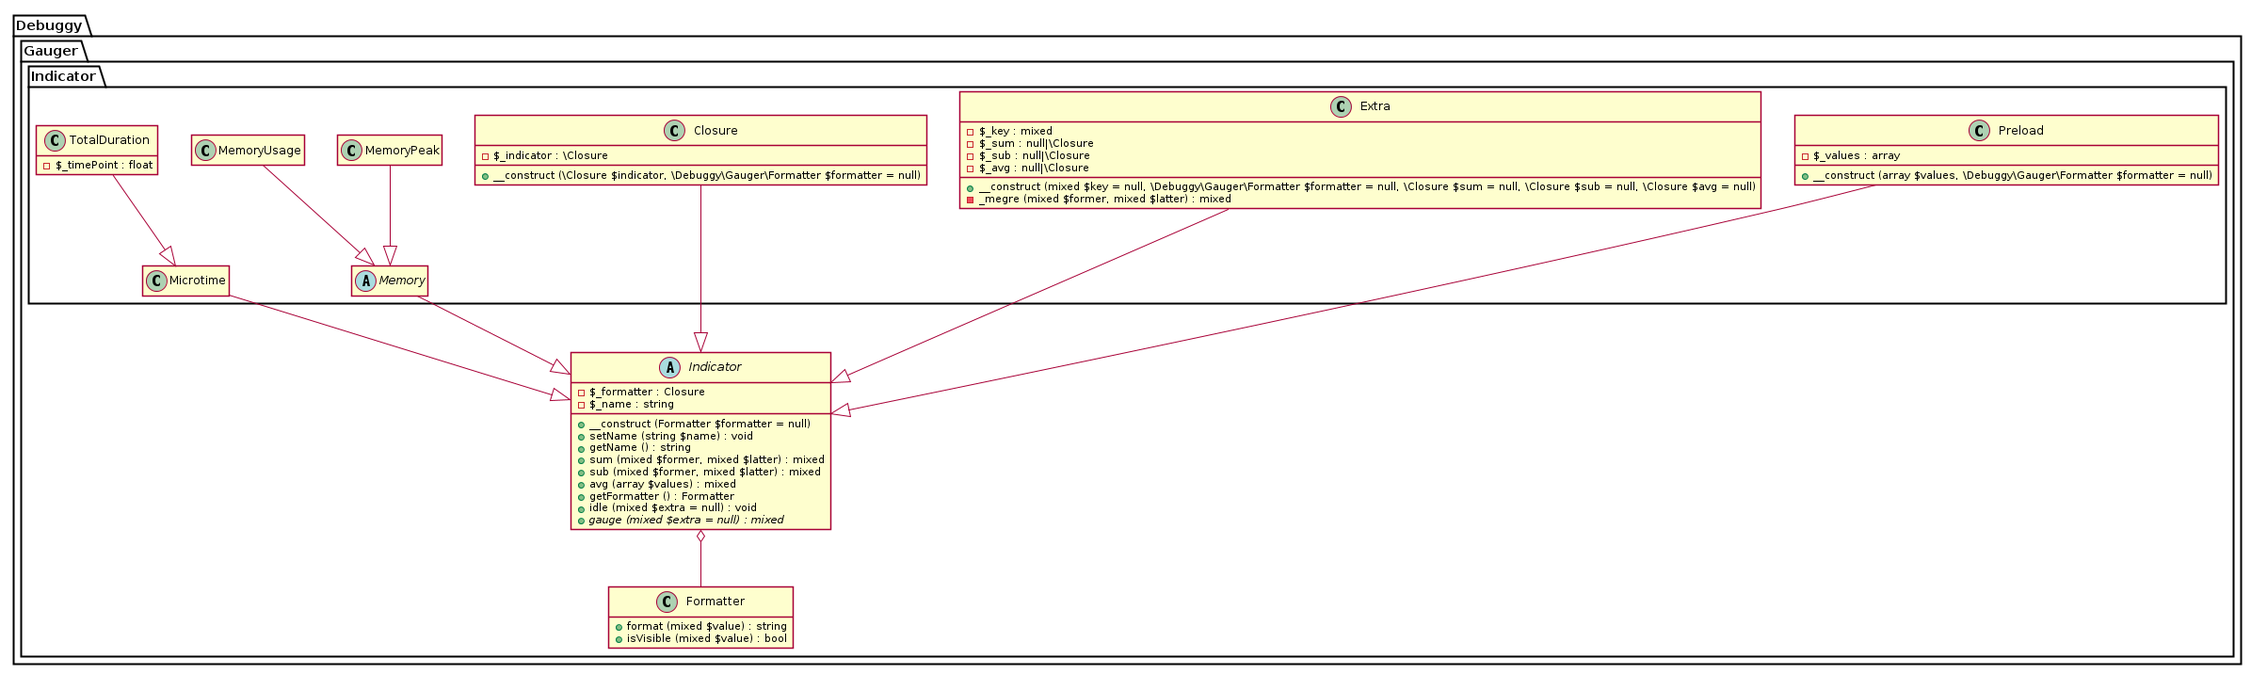
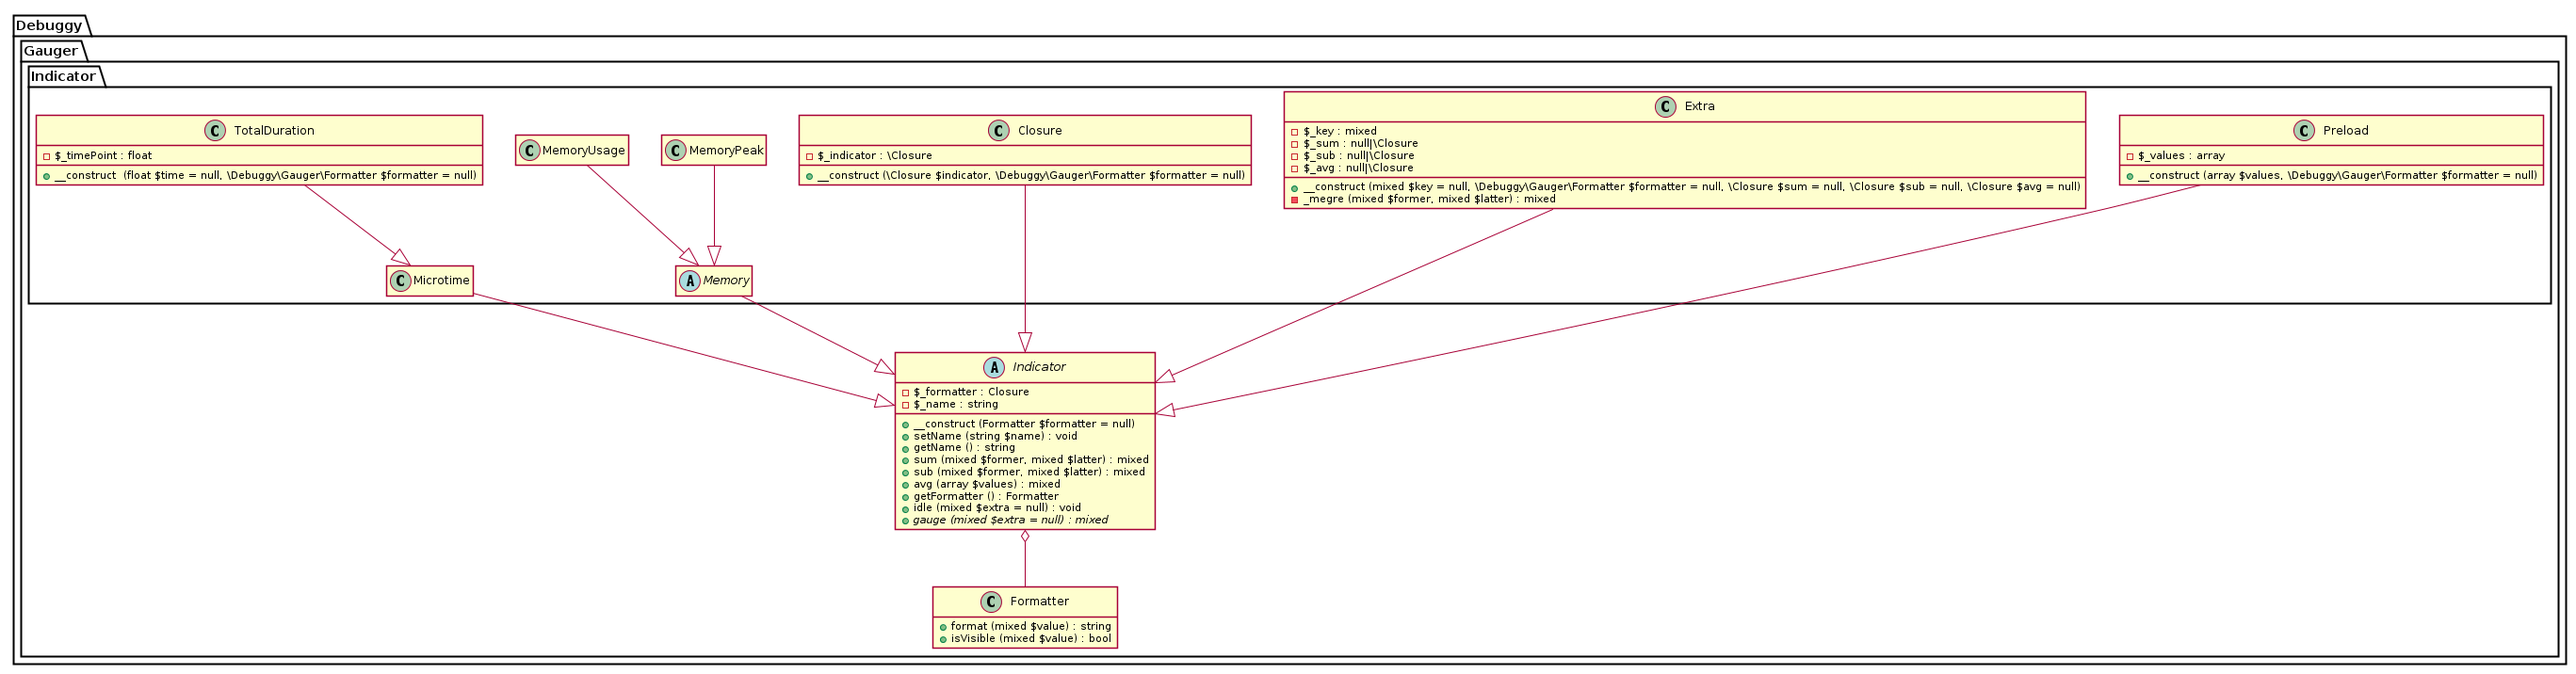
Sample1 uses TotalDuration instead of Microtime; TotalDuration takes microtime in the constructor

diff --git a/src/Debuggy/Gauger/Indicator/TotalDuration.php b/src/Debuggy/Gauger/Indicator/TotalDuration.php
@@ -13,10 +13,13 @@ use Debuggy\Gauger\Formatter;
  */
 class TotalDuration extends Microtime {
 	/** {@inheritdoc} */
-	public function __construct (Formatter $formatter = null) {
+	public function __construct ($time = null, Formatter $formatter = null) {
 		parent::__construct ($formatter);
 
-		if (isset ($_SERVER['REQUEST_TIME_FLOAT']))
+		if (isset ($time))
+			$this->_timePoint = (float) $time;
+
+		else if (isset ($_SERVER['REQUEST_TIME_FLOAT']))
 			$this->_timePoint = $_SERVER['REQUEST_TIME_FLOAT'];
 
 		else if (isset ($_SERVER['REQUEST_TIME']))

diff --git a/src/Debuggy/Gauger/Sample/Sample1.php b/src/Debuggy/Gauger/Sample/Sample1.php
@@ -41,7 +41,7 @@ class Sample1 extends Sample {
 
 	/** {@inheritdoc} */
 	protected function initGauge (Gauge $gauge) {
-		$gauge->addDial (new Dial (new Indicator\Microtime));
+		$gauge->addDial (new Dial (new Indicator\TotalDuration));
 		$gauge->addDial (new Dial (new Indicator\MemoryUsage));
 		$gauge->addDial (new Dial (new Indicator\Extra));
 	}

diff --git a/tests/Indicators.php b/tests/Indicators.php
@@ -110,6 +110,10 @@ class Indicators extends PHPUnit_Framework_TestCase {
 		$ind3 = new TotalDuration;
 
 		$this->assertTrue (is_numeric ($ind3->gauge ()));
+
+		$ind4 = new TotalDuration (microtime (true));
+
+		$this->assertTrue (is_numeric ($ind4->gauge ()));
 	}
 
 
